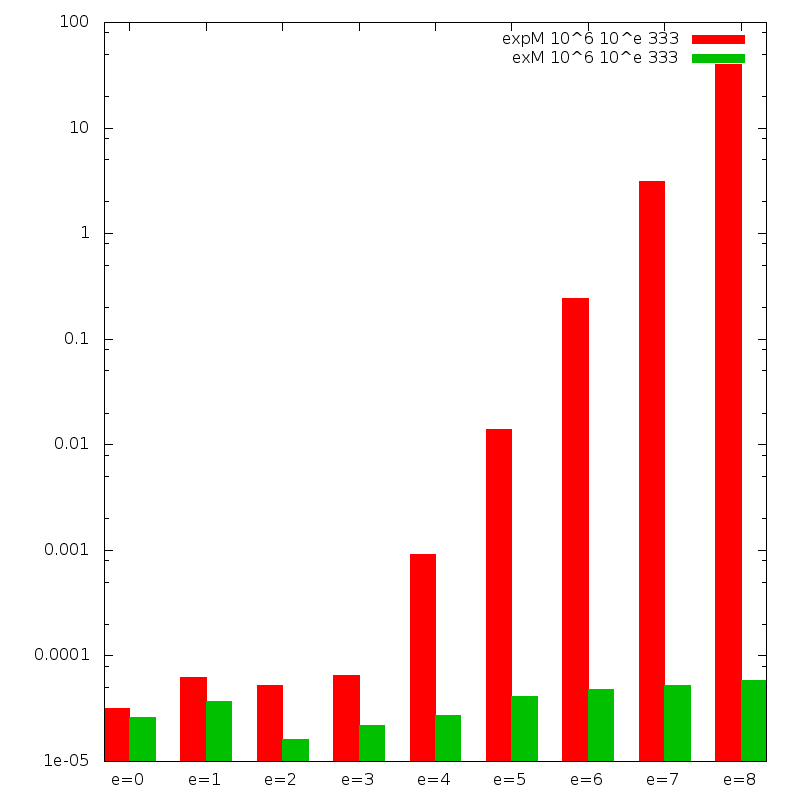
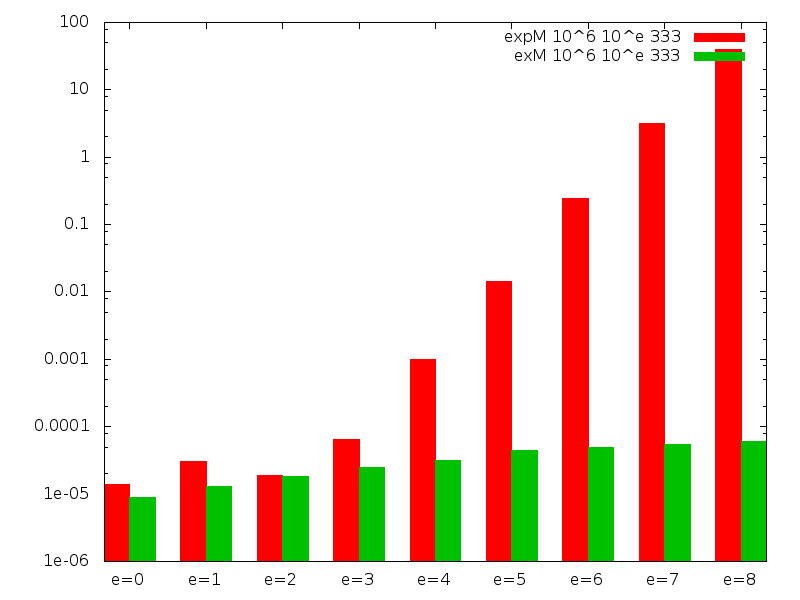
update readme, TODO

diff --git a/assignment-6/README.md b/assignment-6/README.md
@@ -5,8 +5,14 @@ See the end of `Lecture6.hs`.
 
 ## Exercise 2
 Below is a graph that compares the performance of the original `expM` and
-our implementation of `exM`
-(_note: the y-axis is a logscale of the execution time in seconds_).
+our implementation of `exM`. The y-axis is a logscale of the execution time in
+seconds, you can interpret the x-axis as a "logscale of the exponent".
+
+*DOUBLE CHECK PLS*
+*It looks like the original `expM` grows linearly with the size of the
+exponent; if the exponent is multiplied by 10, `expM` takes 10 times
+longer. `exM` seems to grow logarithmically with the size of the exponent; if
+the exponent is multiplied by 10, `exM` takes perhaps 2 times longer.*
 
 ![expM vs exM](exMtests.png)
 
